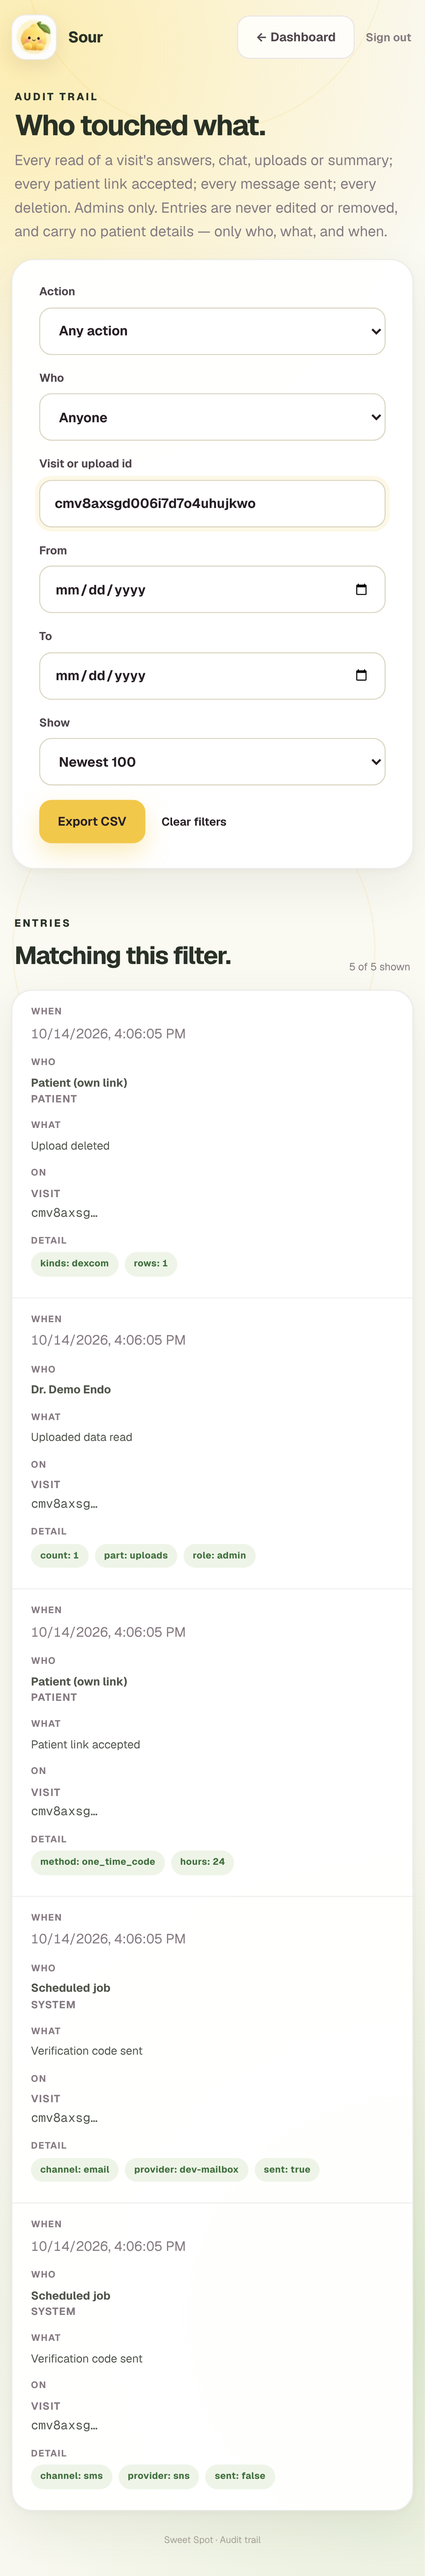
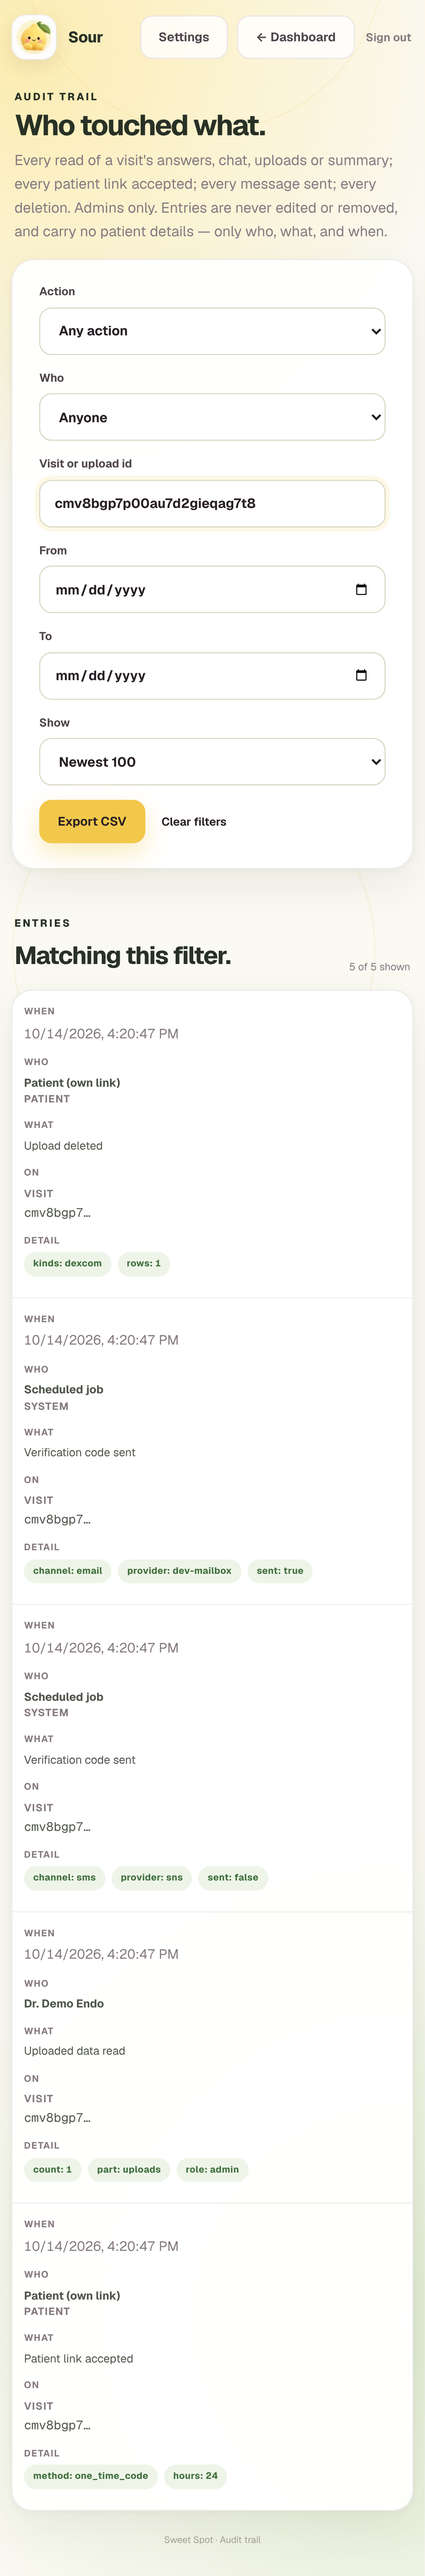
T12: book with channel: none, after T07 replaced optIn with consent
T07 landed while this was in review and made POST /api/book derive the send
from a recorded consent (2.2), so the audit spec's optIn: false booking
became a 400 and the suite went red on the merge. channel: none is what
this spec means — there is no invite to send — and it is what uploads.spec
already passes. The verification code is unaffected: it goes to whatever
contact details are on file (5.3).

The merge also keeps both records of an invite send, because they answer
different questions: 8.3's delivery rows are what staff read on the
dashboard, 10.2's audit row is what an admin reads months later.

Claude-Session: https://claude.ai/code/session_01Ju7MeD38FVVVUiYG3uLuw3

diff --git a/e2e/audit.spec.ts b/e2e/audit.spec.ts
@@ -46,8 +46,11 @@ test("the audit trail records reads, link use and deletions, and exports them wi
   expect(demo.role, "the seeded provider is their practice's admin, which §10.2 makes the audience for this").toBe("admin");
 
   const patient = patientUnder();
-  const booked = await (await postJson(page.request, "/api/book", { ...patient, visitType: "follow_up", optIn: false })).json();
-  expect(booked.visitId).toBeTruthy();
+  // `channel: "none"` is "do not message this patient" (T07, §2.2): there is no invite to send here, and the
+  // default would ask for a recorded consent this visit has no reason to carry. It does not touch the
+  // verification code below, which goes to whatever contact details are on file (§5.3).
+  const booked = await (await postJson(page.request, "/api/book", { ...patient, visitType: "follow_up", channel: "none" })).json();
+  expect(booked.visitId, `booking: ${JSON.stringify(booked)}`).toBeTruthy();
 
   // The patient, on their own link and with no provider session: the code from their own email turns the
   // link into a 24-hour session (§2.3, §5.3), which is §10.2's verification and the first row. `request`,

diff --git a/docs/screenshots/tickets/t12/README.md b/docs/screenshots/tickets/t12/README.md
@@ -3,7 +3,8 @@
 From `bash scripts/agent-check.sh` on branch `t12-audit-log`. Every row in these shots was produced by doing
 the thing, not by writing a row: `e2e/audit.spec.ts` books a visit as the signed-in admin, verifies the
 patient's link with the six-digit code from their own inbox (T08), uploads a Dexcom export over it, reads the
-visit back as the clinician, and then deletes the upload. The other specs in the run share the practice, so the unfiltered page shows their rows too.
+visit back as the clinician, and then deletes the upload. The other specs in the run share the practice, so
+the unfiltered page shows their rows too.
 
 The ids are cuids from a throwaway database and the patient details are the suite's own (`Audit Patient`,
 `Sam Sample`) — which is the point of the last assertions in that spec: neither appears anywhere in these
@@ -13,8 +14,8 @@ tables, or in the CSV the Export button hands over.
 |---|---|
 | `desktop-provider-audit.png` | The new screen (§4.8, §10.2). Filters across the top — action, who, a visit or upload id, a date range, how many — then the trail, newest first. A row is a time, a person, what they did, the thing they did it to and a detail with no patient in it. `method: one_time_code` is how the patient proved the link was theirs; `part: uploads` is the one part of the visit the bundle actually carried; `count` on a read is how many identical reads inside a minute that row stands for. |
 | `mobile-provider-audit.png` | The same at phone width, viewport only. The filters stack and the table stops being a table: each row becomes a labelled card, the way the users table does in settings. `Settings` drops out of the header, because the phone hides the first button in that row and the way back to the dashboard is what matters there. |
-| `desktop-provider-audit-visit.png` | Filtered to the one visit the spec created: the link accepted, the clinician's read of the uploads, and the patient's deletion. Three rows, and the heading changes to say the list is a filtered one. |
-| `mobile-provider-audit-visit.png` | The same three rows stacked. |
+| `desktop-provider-audit-visit.png` | Filtered to the one visit the spec created, and the whole of its life in five rows: the two sends of the six-digit code, the code accepted, the clinician's read of the uploads, and the patient's deletion. The heading changes to say the list is a filtered one. The two `Verification code sent` rows are the §10.2 send rule as it really behaves — the email went to the dev mailbox (`sent: true`), the text was attempted by SNS and failed for want of credentials (`sent: false`), and a channel no backend tried would not be here at all. |
+| `mobile-provider-audit-visit.png` | The same five rows stacked. |
 | `desktop-provider-dashboard.png` | `Audit` beside `Settings` in the admin's header. Both are admin-only and both are hidden for a clinician or a receptionist — `e2e/roles.spec.ts` checks that the link is absent *and* that the page and the route refuse them. |
 | `mobile-provider-dashboard.png` | The same at phone width. |
 | `desktop-provider-settings.png` | The admin's other screen, now linking to the audit trail. |
